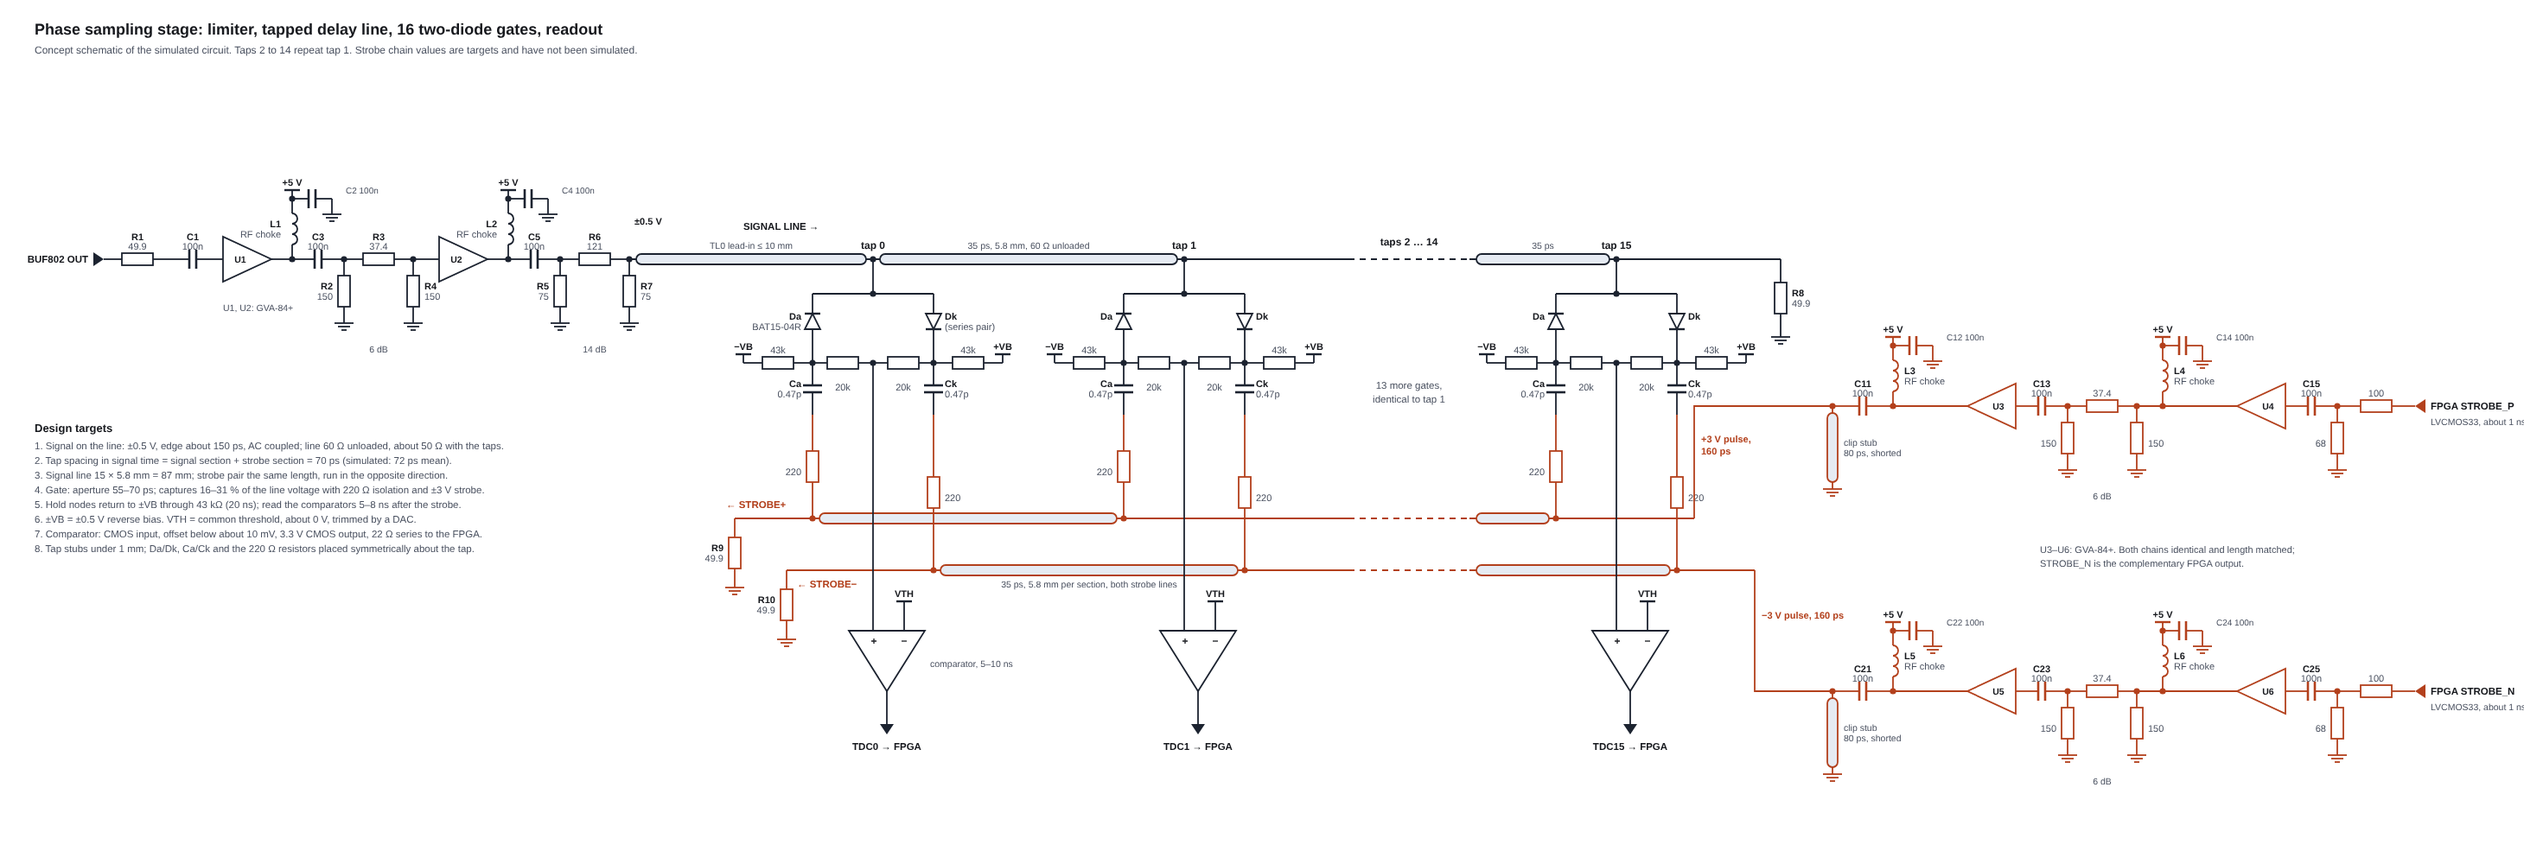
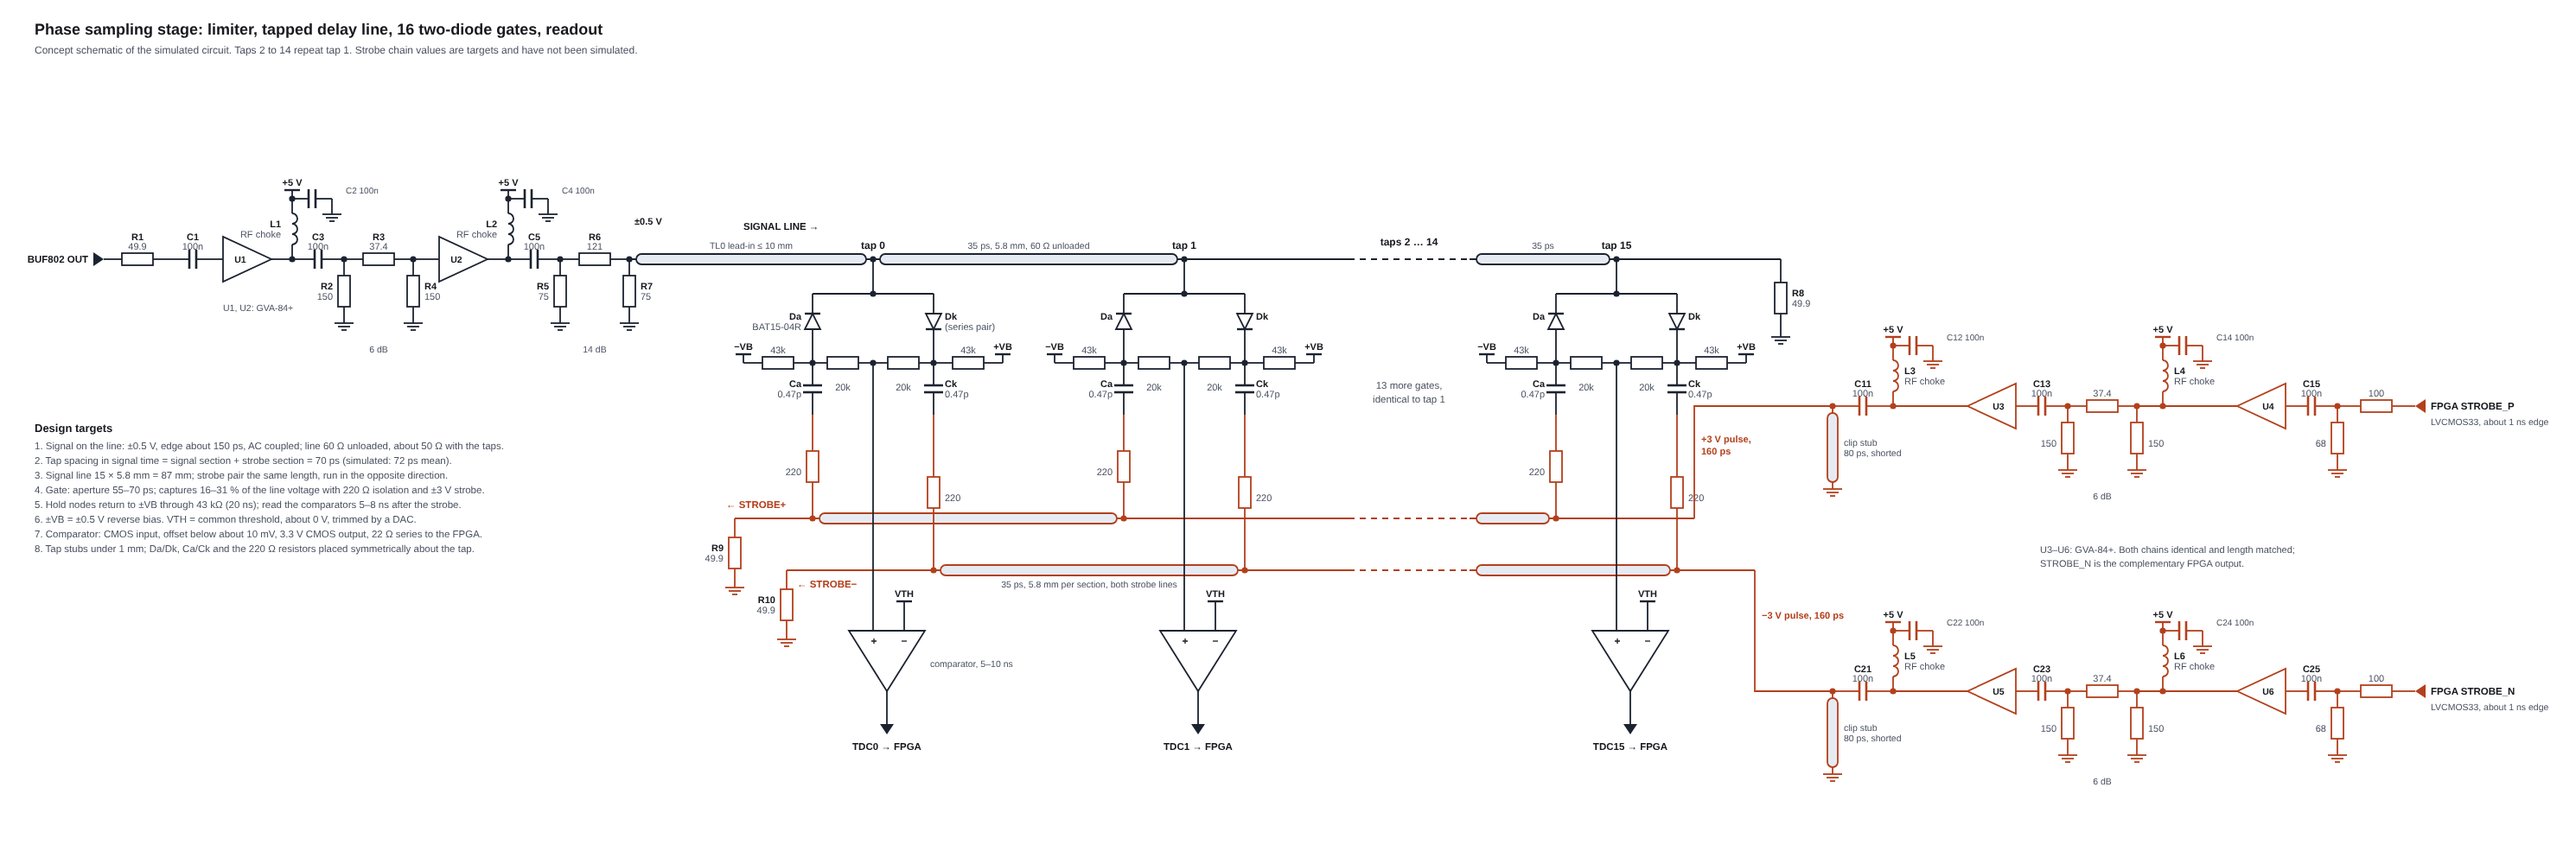
Widen the phase sampler schematic so the port labels fit
Claude-Session: https://claude.ai/code/session_013wvKokfTdYce5kNVbUT16u

diff --git a/docs/diagrams/gen_schematic.py b/docs/diagrams/gen_schematic.py
@@ -4,7 +4,7 @@ Hand-placed SVG. Taps 2 to 14 are identical to the ones drawn and are abbreviate
 """
 import html
 
-W, H = 2920, 1000
+W, H = 2980, 1000
 INK, SUB, WIRE, STB, FILL = "#16181d", "#4a5160", "#1c2330", "#b3401c", "#ffffff"
 o = []
 
